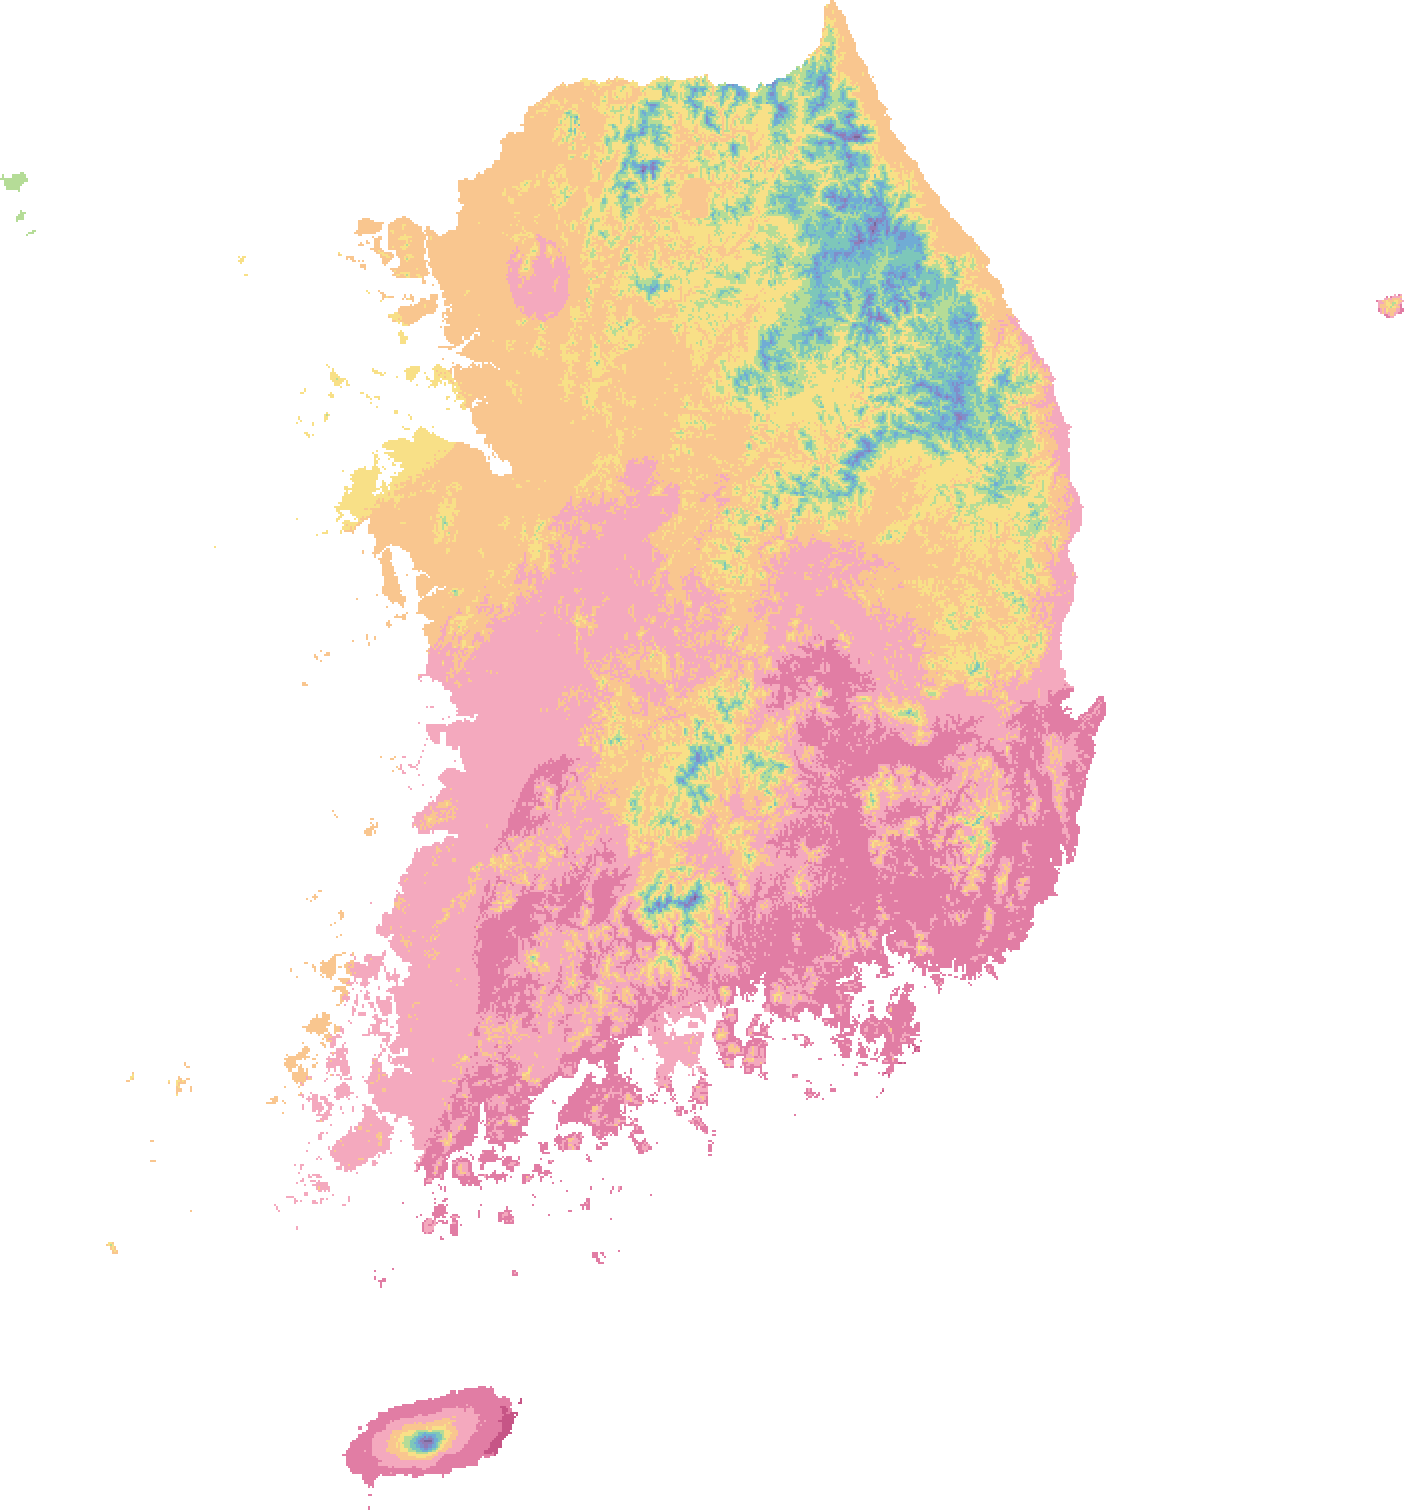
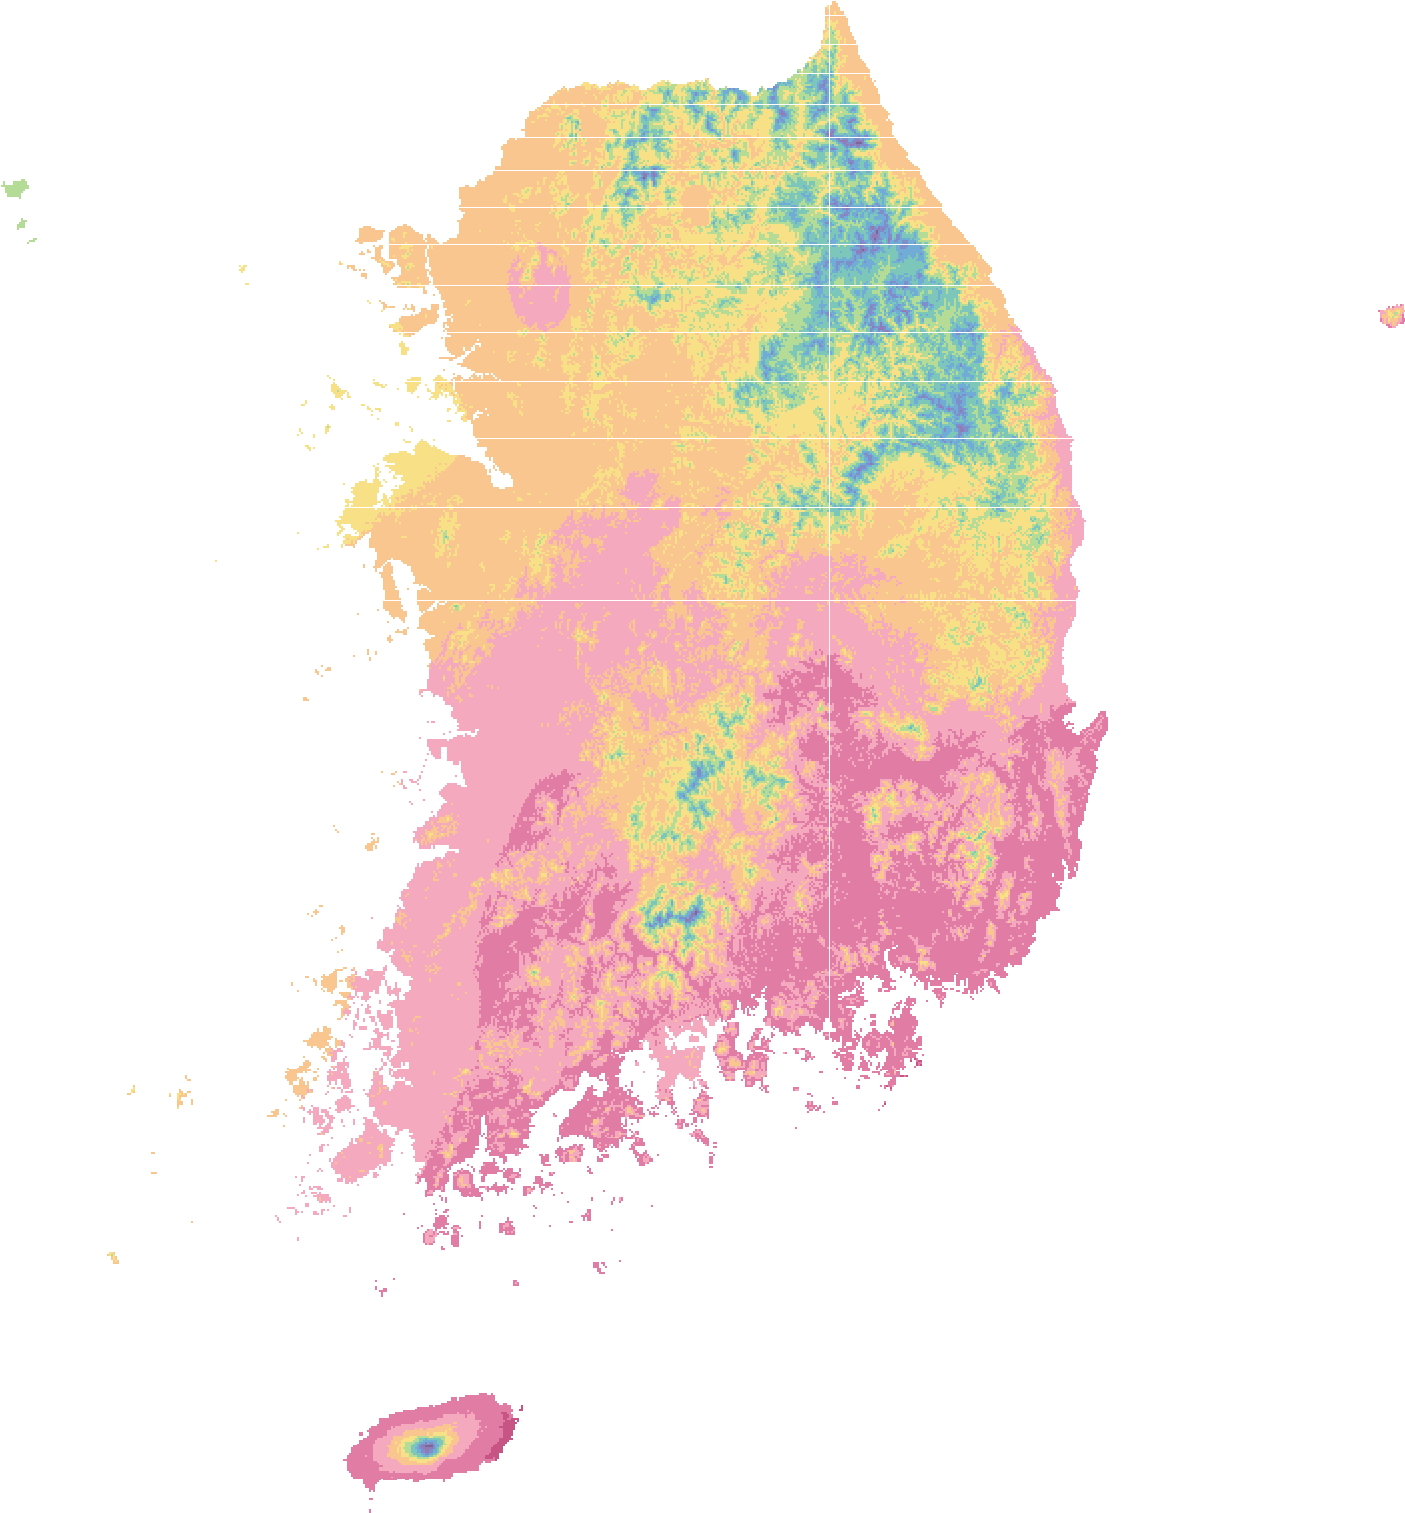
Fix prediction raster projection alignment

diff --git a/standalone/app.js b/standalone/app.js
@@ -262,8 +262,8 @@ async function loadPredictionRasterLayer() {
       visible: false,
       opacity: Number(predictionRasterMeta.opacity) || 0.62,
       source: new ol.source.ImageStatic({
-        url: `./data/${predictionRasterMeta.image}`,
-        imageExtent: ol.proj.transformExtent(predictionRasterMeta.extent, "EPSG:4326", "EPSG:3857"),
+        url: getPredictionRasterUrl(predictionRasterMeta),
+        imageExtent: getPredictionRasterExtent(predictionRasterMeta),
         projection: "EPSG:3857",
         crossOrigin: "anonymous",
       }),
@@ -275,6 +275,16 @@ async function loadPredictionRasterLayer() {
     el.predictionLayerBtn.disabled = true;
     el.predictionLayerBtn.title = "벚꽃 개화 예측 지도를 불러오지 못했습니다.";
   }
+}
+
+function getPredictionRasterUrl(meta) {
+  const cacheKey = encodeURIComponent(`${meta.projection || "EPSG:4326"}-${meta.resolution_m || "degree"}`);
+  return `./data/${meta.image}?v=${cacheKey}`;
+}
+
+function getPredictionRasterExtent(meta) {
+  if (meta.projection === "EPSG:3857") return meta.extent;
+  return ol.proj.transformExtent(meta.extent, "EPSG:4326", "EPSG:3857");
 }
 
 function togglePredictionRasterLayer() {

diff --git a/scripts/build_prediction_raster.py b/scripts/build_prediction_raster.py
@@ -1,5 +1,6 @@
 import csv
 import json
+import math
 from datetime import date, timedelta
 from pathlib import Path
 
@@ -15,10 +16,10 @@ STANDALONE_OUT_DIR = ROOT / "standalone" / "data"
 STANDALONE_PNG_OUT = STANDALONE_OUT_DIR / PNG_OUT.name
 STANDALONE_JSON_OUT = STANDALONE_OUT_DIR / JSON_OUT.name
 
-DX = 0.008988586
-DY = 0.007285974
 BIN_SIZE = 5
 YEAR = 2026
+WEB_MERCATOR_RADIUS = 6378137.0
+RASTER_RESOLUTION_M = 500.0
 
 COLORS = [
     "#b2185b",
@@ -46,15 +47,26 @@ def hex_to_rgba(color: str, alpha: int = 188) -> tuple[int, int, int, int]:
     return (int(color[0:2], 16), int(color[2:4], 16), int(color[4:6], 16), alpha)
 
 
+def lonlat_to_web_mercator(lon: float, lat: float) -> tuple[float, float]:
+    x = WEB_MERCATOR_RADIUS * math.radians(lon)
+    y = WEB_MERCATOR_RADIUS * math.log(math.tan(math.pi / 4 + math.radians(lat) / 2))
+    return x, y
+
+
 def main() -> None:
     rows = []
     with SOURCE.open("r", encoding="utf-8-sig", newline="") as file:
         reader = csv.DictReader(file)
         for row in reader:
+            lon = float(row["lon"])
+            lat = float(row["lat"])
+            x, y = lonlat_to_web_mercator(lon, lat)
             rows.append(
                 {
-                    "lon": float(row["lon"]),
-                    "lat": float(row["lat"]),
+                    "lon": lon,
+                    "lat": lat,
+                    "x": x,
+                    "y": y,
                     "doy": int(round(float(row["pred_doy"]))),
                 }
             )
@@ -63,11 +75,21 @@ def main() -> None:
     max_lon = max(row["lon"] for row in rows)
     min_lat = min(row["lat"] for row in rows)
     max_lat = max(row["lat"] for row in rows)
+    min_x = min(row["x"] for row in rows)
+    max_x = max(row["x"] for row in rows)
+    min_y = min(row["y"] for row in rows)
+    max_y = max(row["y"] for row in rows)
     min_doy = min(row["doy"] for row in rows)
     max_doy = max(row["doy"] for row in rows)
 
-    width = round((max_lon - min_lon) / DX) + 1
-    height = round((max_lat - min_lat) / DY) + 1
+    extent = [
+        min_x - RASTER_RESOLUTION_M,
+        min_y - RASTER_RESOLUTION_M,
+        max_x + RASTER_RESOLUTION_M,
+        max_y + RASTER_RESOLUTION_M,
+    ]
+    width = math.ceil((extent[2] - extent[0]) / RASTER_RESOLUTION_M)
+    height = math.ceil((extent[3] - extent[1]) / RASTER_RESOLUTION_M)
     image = Image.new("RGBA", (width, height), (0, 0, 0, 0))
     pixels = image.load()
 
@@ -89,21 +111,16 @@ def main() -> None:
         color_index += 1
 
     for row in rows:
-        col = round((row["lon"] - min_lon) / DX)
-        pixel_row = round((max_lat - row["lat"]) / DY)
+        col = round((row["x"] - extent[0]) / RASTER_RESOLUTION_M)
+        pixel_row = round((extent[3] - row["y"]) / RASTER_RESOLUTION_M)
         bin_index = min((row["doy"] - bin_start) // BIN_SIZE, len(bins) - 1)
-        if 0 <= col < width and 0 <= pixel_row < height:
-            pixels[col, pixel_row] = hex_to_rgba(bins[bin_index]["color"])
-
-    # Expand sparse point pixels into small cells so the layer reads as a continuous 1 km grid.
-    image = image.resize((width * 2, height * 2), resample=Image.Resampling.NEAREST)
-
-    extent = [
-        min_lon - DX / 2,
-        min_lat - DY / 2,
-        max_lon + DX / 2,
-        max_lat + DY / 2,
-    ]
+        color = hex_to_rgba(bins[bin_index]["color"])
+        for dx in (0, 1):
+            for dy in (0, 1):
+                x = col + dx
+                y = pixel_row + dy
+                if 0 <= x < width and 0 <= y < height:
+                    pixels[x, y] = color
 
     OUT_DIR.mkdir(parents=True, exist_ok=True)
     STANDALONE_OUT_DIR.mkdir(parents=True, exist_ok=True)
@@ -116,7 +133,15 @@ def main() -> None:
             "image": PNG_OUT.name,
             "bin_days": BIN_SIZE,
             "opacity": 0.62,
+            "projection": "EPSG:3857",
             "extent": extent,
+            "lonlat_extent": [
+                min_lon,
+                min_lat,
+                max_lon,
+                max_lat,
+            ],
+            "resolution_m": RASTER_RESOLUTION_M,
             "doy_range": [min_doy, max_doy],
             "legend": bins,
         },
